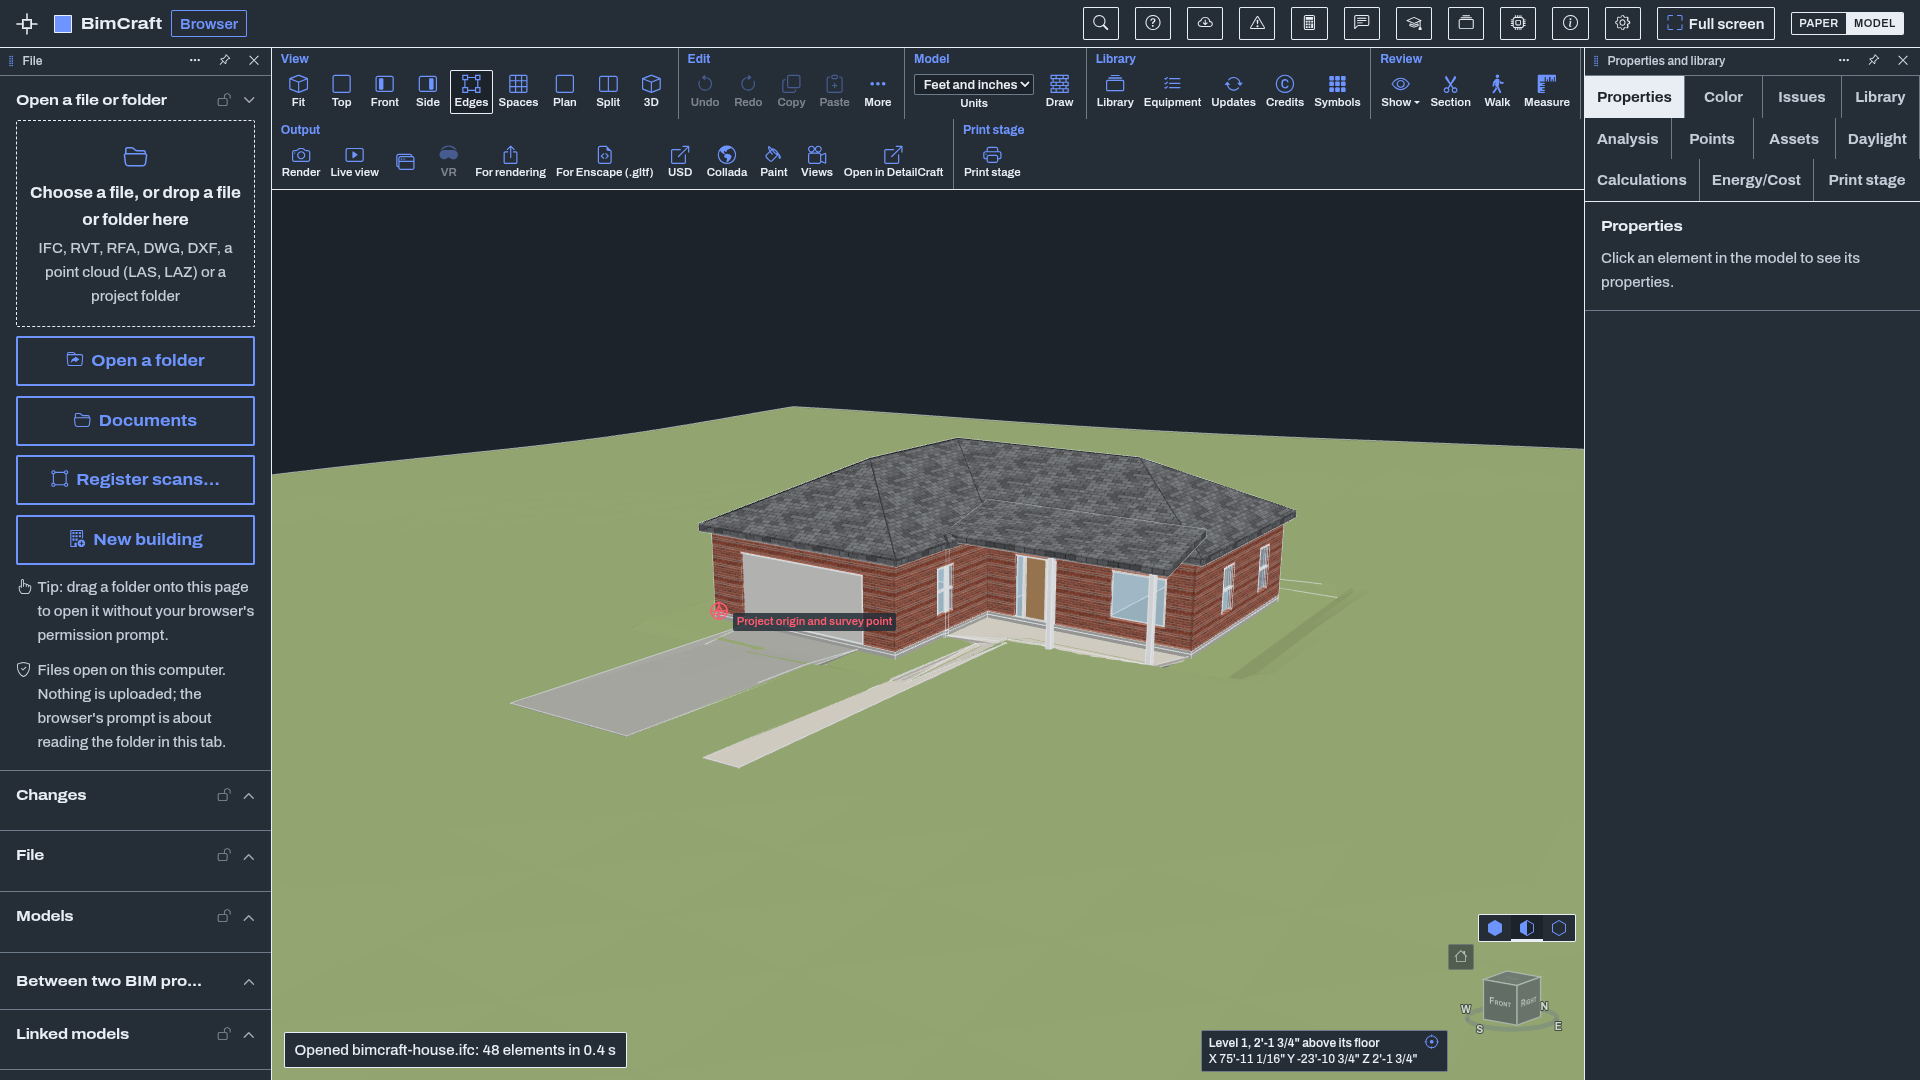
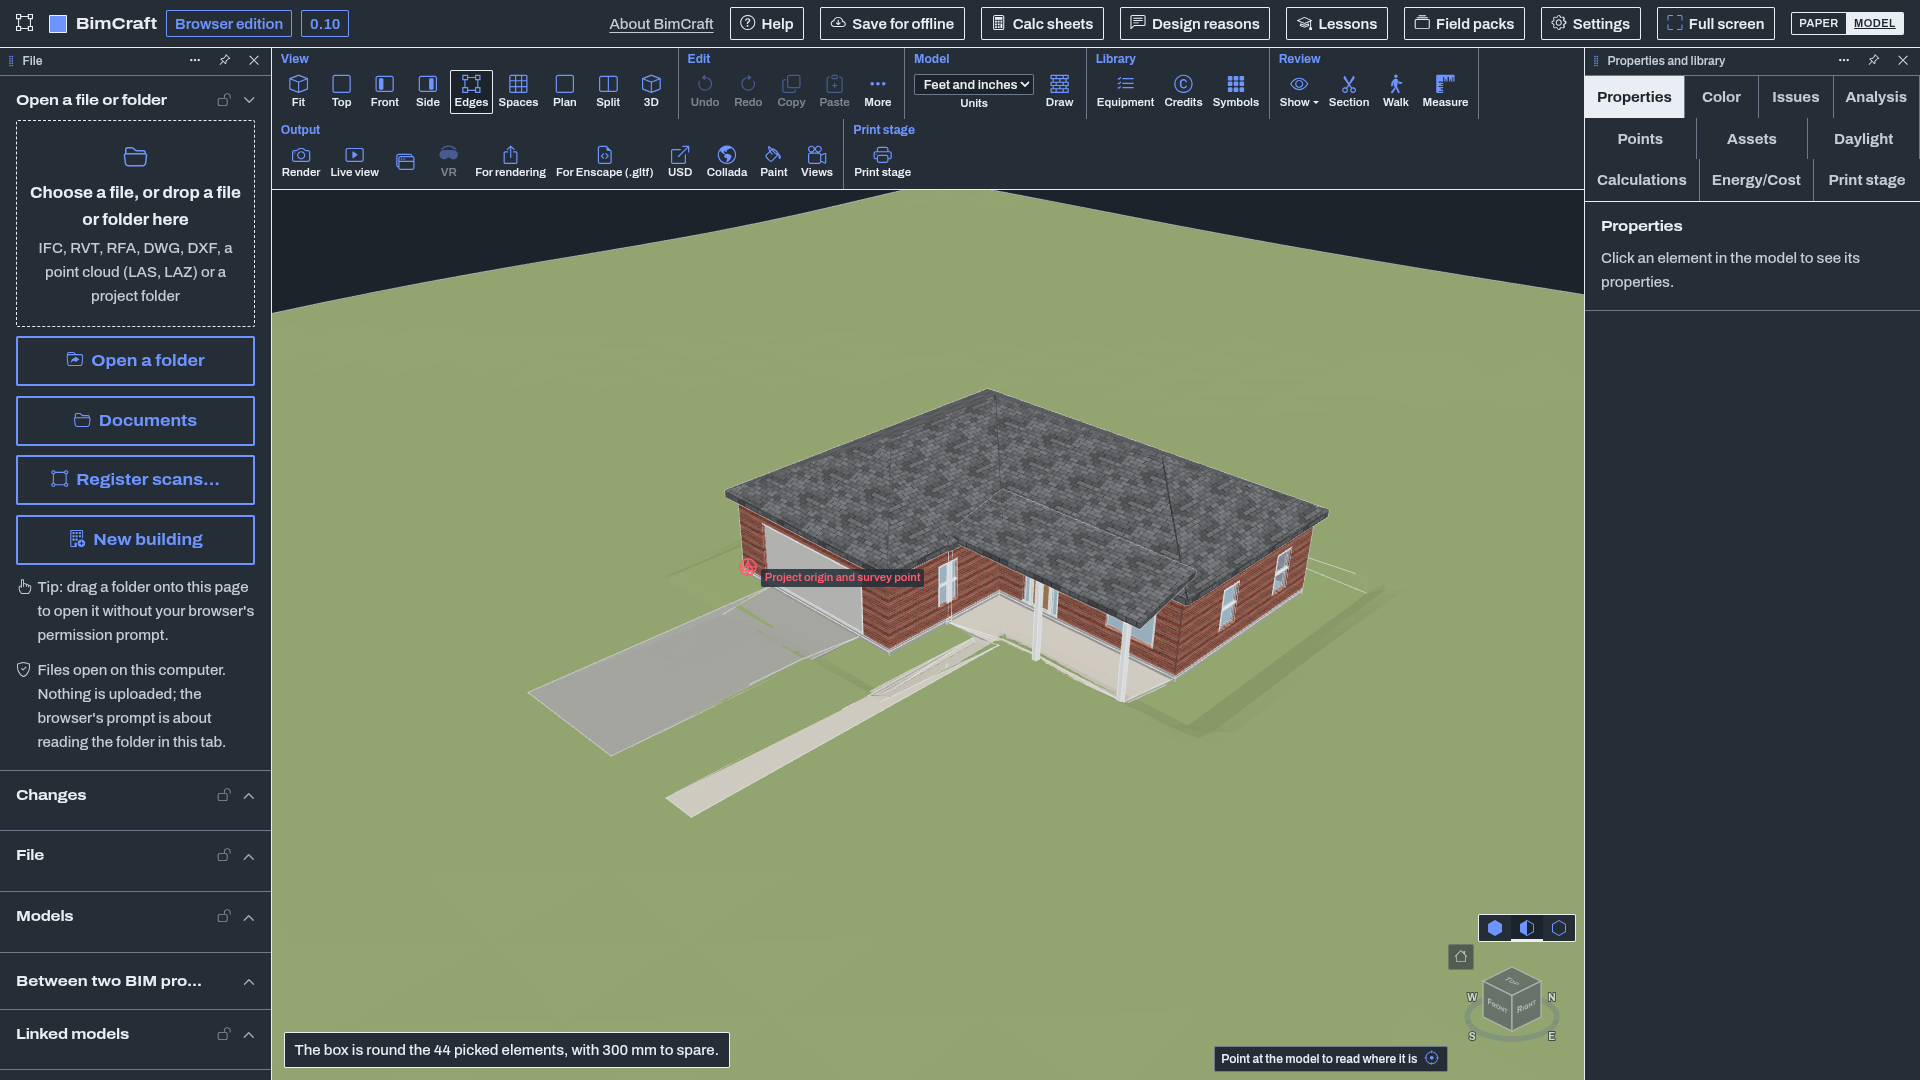
README: 0.10 screenshots (the released 0.10 browser edition, dark theme)

diff --git a/README.md b/README.md
@@ -6,9 +6,9 @@ One model. Every plan, section and schedule.
 
 **[Website](https://getcadcraft.com/apps/bimcraft) | [Use it in your browser](https://getcadcraft.com/use/bimcraft) | [Download CadCraft Studio](https://getcadcraft.com/download#studio) | [Help and tutorials](https://getcadcraft.com/tutorials/bimcraft) | [News](https://getcadcraft.com/news) | [Suggest a feature](https://getcadcraft.com/suggest)**
 
-[![BimCraft 0.9](screenshots/paper.png)](https://getcadcraft.com/use/bimcraft)
+[![BimCraft 0.10](screenshots/paper.png)](https://getcadcraft.com/use/bimcraft)
 
-<sub>BimCraft 0.9 in the browser, dark theme. [A second view](screenshots/model.png).</sub>
+<sub>BimCraft 0.10 in the browser, dark theme. [A second view](screenshots/model.png).</sub>
 
 BimCraft is the BIM authoring app in the [CadCraft](https://getcadcraft.com) family: Parametric walls, doors and windows on levels and grids, with views, schedules, sheets and clash checks from one model.
 
